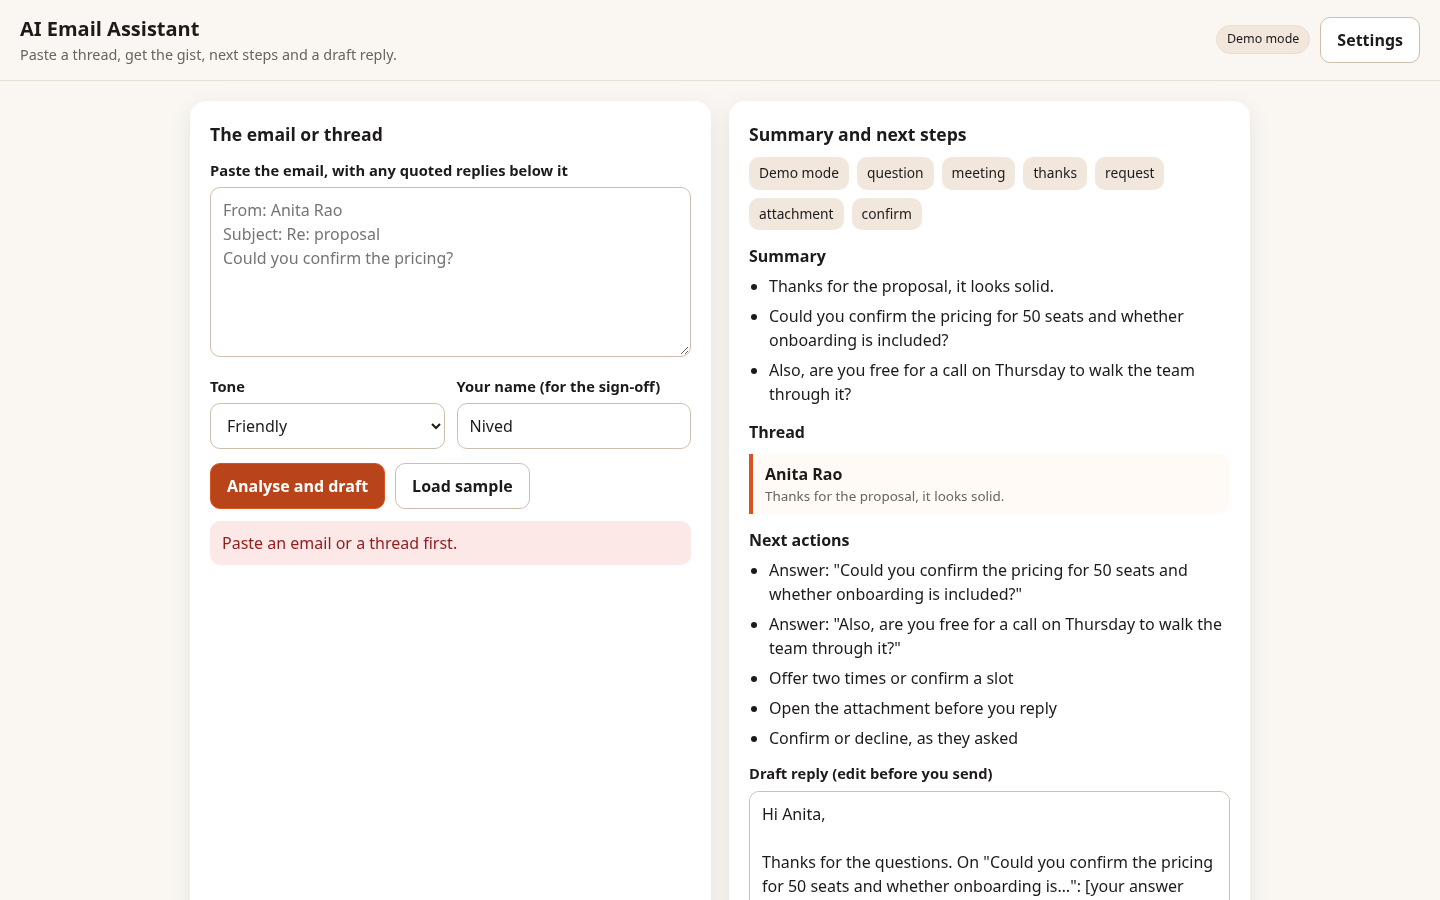
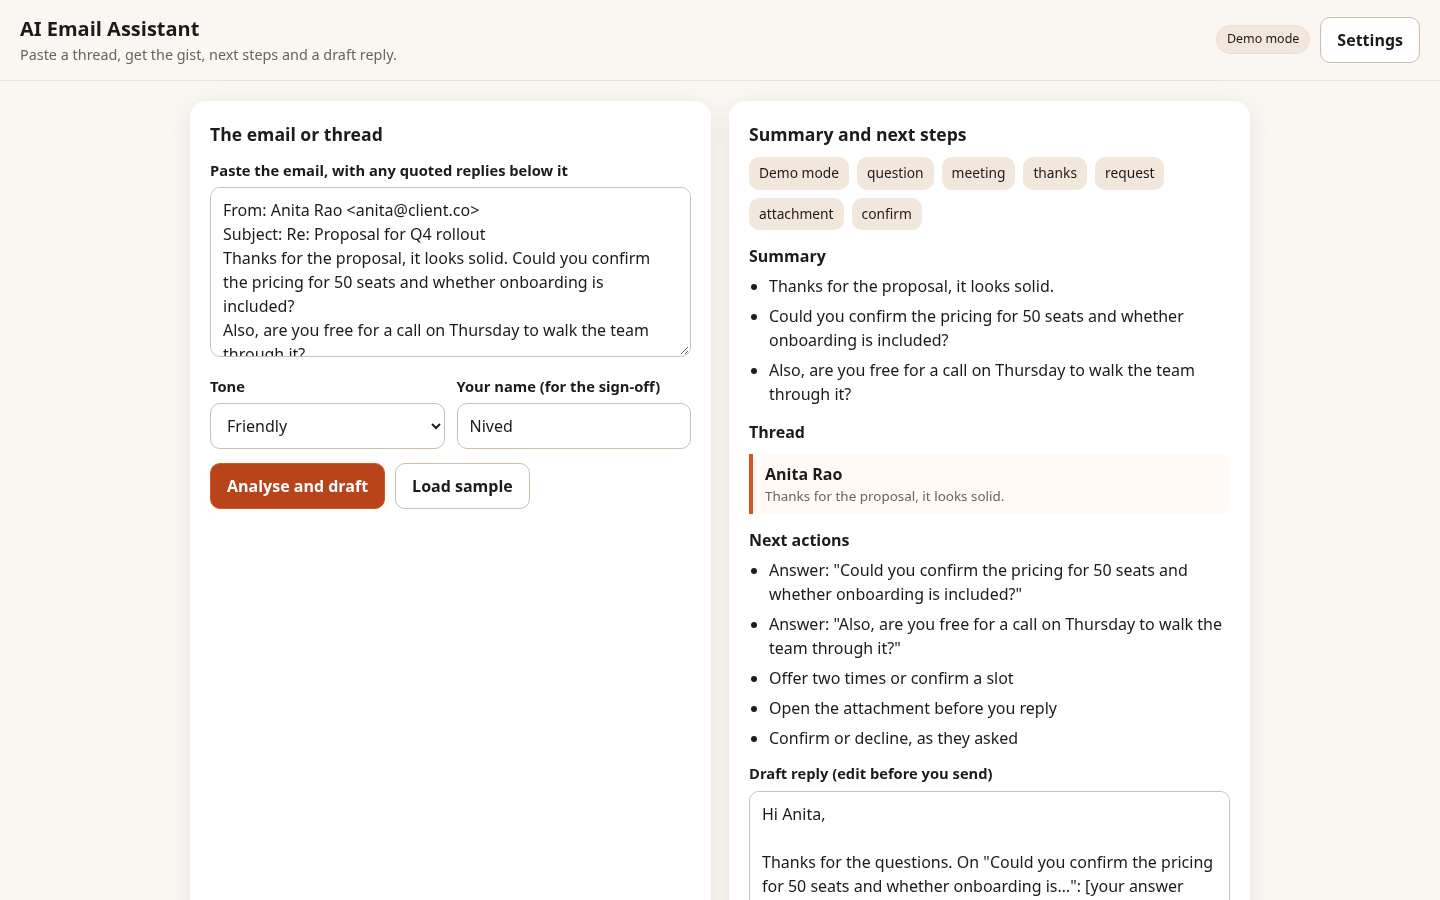
Refresh screenshots, cover and status from final e2e run

Changed region(s): [[0.1562, 0.2178, 0.4375, 0.4044], [0.1562, 0.5911, 0.3125, 0.6222]]

diff --git a/tests/e2e/common.py b/tests/e2e/common.py
@@ -36,7 +36,7 @@ def configure_live(page):
     page.wait_for_selector("#mode-badge.live")
 
 
-def run_e2e(root, flow, mock_reply, shot_dir=None):
+def run_e2e(root, flow, mock_reply, shot_dir=None, showcase=None):
     """flow(page, mode) drives the app and asserts. mock_reply(request_body) -> text.
     Returns a summary dict; raises AssertionError on any failure."""
     srv, base = serve(root)
@@ -77,6 +77,10 @@ def run_e2e(root, flow, mock_reply, shot_dir=None):
                     assert no_overflow, f"horizontal scroll at {vname} {mode}"
                     assert not real_errors, f"console errors at {vname} {mode}: {real_errors}"
                     if mode == "demo" and shot_dir:
+                        if showcase:
+                            page.reload()
+                            page.wait_for_load_state("networkidle")
+                            showcase(page)
                         page.screenshot(path=os.path.join(shot_dir, f"screenshot-{vname}.png"), full_page=False)
                     checks.append(f"{vname}/{mode}")
                     ctx.close()

diff --git a/tests/e2e/e2e.py b/tests/e2e/e2e.py
@@ -35,8 +35,14 @@ def flow(page, mode):
     assert "Paste an email" in page.inner_text("#error")
 
 
+def showcase(page):
+    page.click("#sample")
+    page.click("#analyze")
+    page.wait_for_function("() => document.querySelector('#draft').value.length > 0")
+
+
 if __name__ == "__main__":
     os.makedirs(SHOTS, exist_ok=True)
-    summary = run_e2e(ROOT, flow, mock_reply, shot_dir=SHOTS)
+    summary = run_e2e(ROOT, flow, mock_reply, shot_dir=SHOTS, showcase=showcase)
     print(json.dumps(summary))
     print("E2E PASS")
